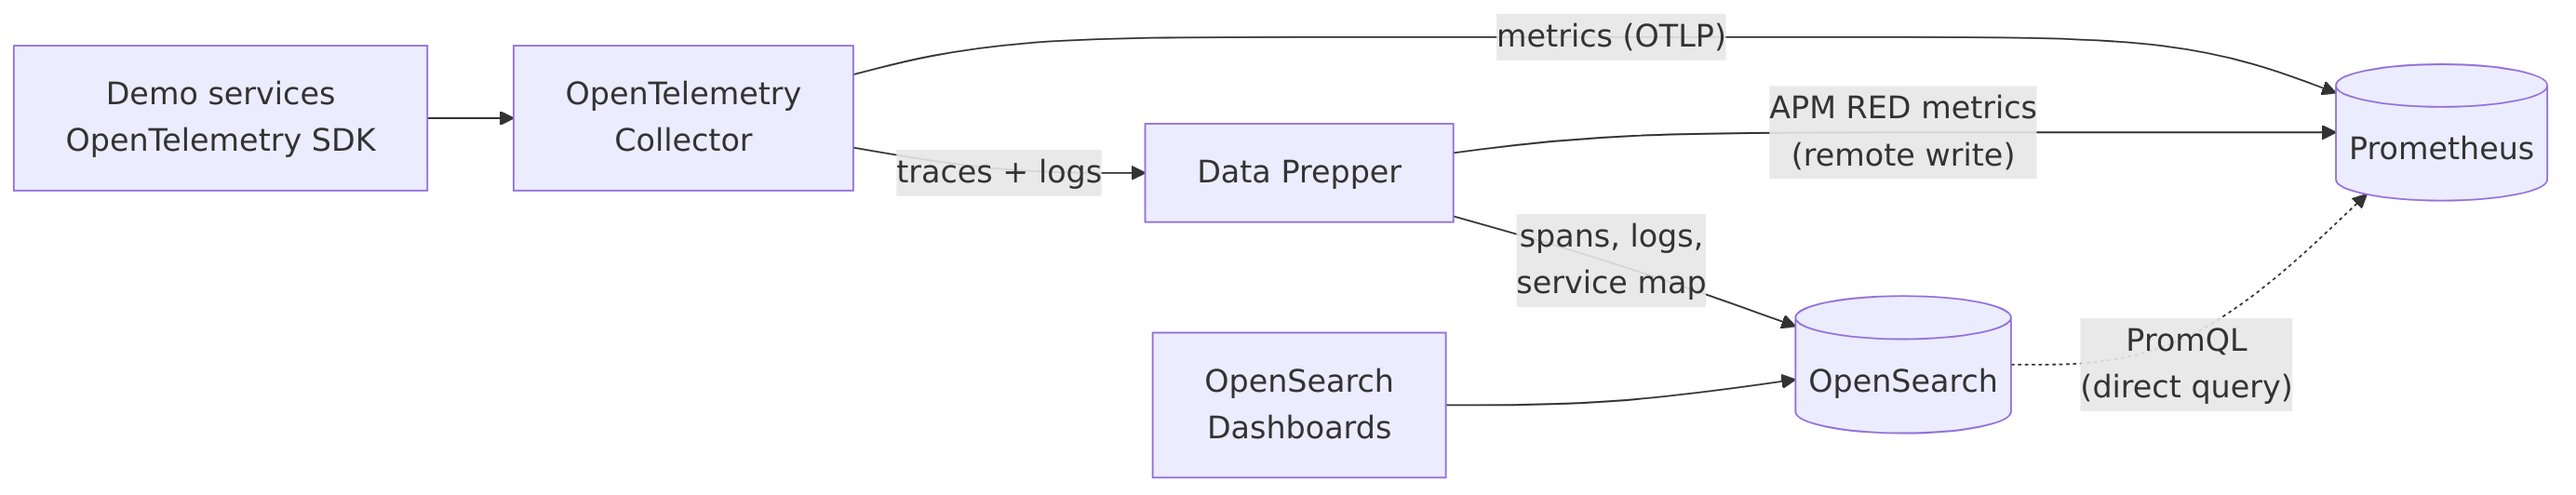
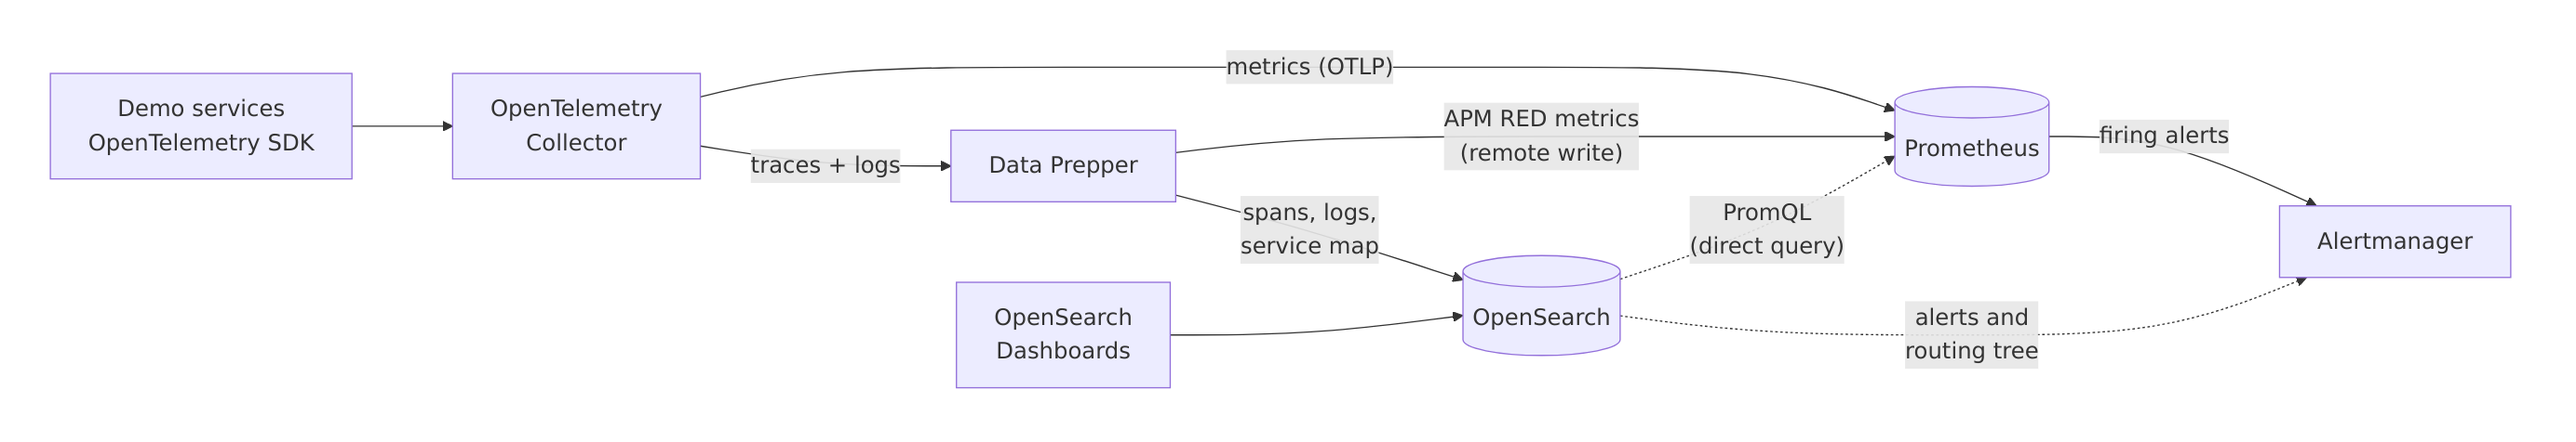
Add reproducible security test and sync blog post

diff --git a/blog-submission/_posts/2026-11-01-testing-opensearch-prometheus-integration.md b/blog-submission/_posts/2026-11-01-testing-opensearch-prometheus-integration.md
@@ -8,15 +8,13 @@ categories:
   - technical-posts
 has_science_table: true
 meta_keywords: OpenSearch Prometheus integration, PromQL in OpenSearch Dashboards, OpenSearch observability, Discover metrics, unified alerts, Alertmanager, OpenTelemetry, Data Prepper, APM, trace to logs correlation
-meta_description: A hands-on test of the OpenSearch Prometheus integration. Follow an injected fault from a PromQL query to a trace and its logs, see how queries and access control work, and learn what to plan for during setup.
-excerpt: OpenSearch Dashboards can query Prometheus with PromQL next to logs and traces stored in OpenSearch. I cloned my setup into a small lab, broke a service, and tried to find the cause from one UI. Here is how the investigation went, how queries and access control work, and what to plan for during setup.
+meta_description: A hands-on test of the OpenSearch Prometheus integration. Follow an injected fault from a PromQL query to a trace and its logs, see how queries and access control work, and avoid two setup problems.
+excerpt: OpenSearch Dashboards can query Prometheus with PromQL next to logs and traces stored in OpenSearch. I built a small lab, broke a service, and tried to find the cause from one UI. Here is how the investigation went, how queries and access control work, and two setup steps that cost me time.
 ---
 
-I worked as a cloud architect on a validation platform for a large healthcare enterprise, where we migrated several separate dashboards for metrics, logs, traces, and validation status into one view, and that work is now in production. What stayed with me was how much of an incident goes to moving between tools: you spot a latency spike in one place, then go looking for the matching trace and error message in another.
+Much of an incident goes to moving between tools: you spot a latency spike in one place, then go looking for the matching trace and error message in another. OpenSearch Dashboards can now query Prometheus directly with PromQL, next to logs and traces stored in OpenSearch, and you don't have to move your metrics to use it. To see how well that works, I built a small lab that mimics a common setup: Prometheus for metrics, and OpenSearch for logs and traces.
 
-OpenSearch Dashboards can query Prometheus directly with PromQL, next to logs and traces stored in OpenSearch, and you don't have to move your metrics to use it. I can't share that production environment, so I cloned the approach into a small lab that you can run yourself. Every number and screenshot in this post comes from that lab, not from production.
-
-The [OpenSearch 3.7 release post](https://opensearch.org/blog/explore-opensearch-3-7/) covers what the feature is. In this post, I'll focus on using it: I'll break a service on purpose and follow the fault from a PromQL query to a log line, trace how the query reaches Prometheus, test who can run it when the Security plugin is enabled, and share what to plan for during setup.
+The [OpenSearch 3.7 release post](https://opensearch.org/blog/explore-opensearch-3-7/) covers what the feature is. In this post, I'll focus on using it: I'll break a service on purpose and follow the fault from a PromQL query to a log line, trace how the query reaches Prometheus, test who can run it when the Security plugin is enabled, and describe two setup steps that cost me time.
 
 All results come from OpenSearch 3.9.0, OpenSearch Dashboards 3.9.0, Data Prepper 2.16.0, Prometheus 3.15.1, and the OpenTelemetry Collector 0.164.0, running in Docker on a laptop. The full lab, including every configuration file, is available in the [`opensearch-prometheus-lab` repository](https://github.com/mohiadeen-ameer/opensearch-prometheus-lab).
 
@@ -24,9 +22,9 @@ All results come from OpenSearch 3.9.0, OpenSearch Dashboards 3.9.0, Data Preppe
 
 The application is a two-service shop written in Go and instrumented with the OpenTelemetry SDK. The `checkout` service calls `payments`, which calls a simulated card provider. A load generator sends steady traffic, and the `payments` service exposes a `/chaos` endpoint that adds latency and errors on demand.
 
-The following diagram shows how each signal travels. The OpenTelemetry Collector sends traces and logs to Data Prepper, which writes them to OpenSearch. Metrics go directly to Prometheus through its native OpenTelemetry Protocol (OTLP) receiver. Data Prepper also derives rate, error, and duration (RED) metrics from spans and remote-writes them to Prometheus for the application performance monitoring (APM) pages.
+The following diagram shows how each signal travels. The OpenTelemetry Collector sends traces and logs to Data Prepper, which writes them to OpenSearch. Metrics go directly to Prometheus through its native OpenTelemetry Protocol (OTLP) receiver. Data Prepper also derives rate, error, and duration (RED) metrics from spans and remote-writes them to Prometheus for the application performance monitoring (APM) pages. Prometheus sends firing alerts to `Alertmanager`, and OpenSearch reads both for the alerting pages.
 
-![Architecture of the lab: the OpenTelemetry Collector sends traces and logs through Data Prepper to OpenSearch, and metrics to Prometheus. OpenSearch Dashboards queries OpenSearch, which forwards PromQL to Prometheus.](/assets/media/blog-images/2026-11-01-testing-opensearch-prometheus-integration/architecture.png){:class="img-centered"}
+![Architecture of the lab: the OpenTelemetry Collector sends traces and logs through Data Prepper to OpenSearch, and metrics to Prometheus, which sends alerts to Alertmanager. OpenSearch Dashboards queries OpenSearch, which forwards PromQL to Prometheus and reads alerts from Alertmanager.](/assets/media/blog-images/2026-11-01-testing-opensearch-prometheus-integration/architecture.png){:class="img-centered"}
 
 Connecting Prometheus takes one API call to OpenSearch Dashboards:
 
@@ -89,7 +87,7 @@ The following chart shows p95 latency for both services jumping from about 50 ms
 
 ![PromQL query in the builder and a line chart showing p95 latency rising from about 50 ms to about 750 ms for both services.](/assets/media/blog-images/2026-11-01-testing-opensearch-prometheus-integration/promql-p95-latency.png)
 
-The `service_name` label exists because Prometheus is configured to promote the OpenTelemetry `service.name` resource attribute to a label (`otlp.promote_resource_attributes` in `prometheus.yml`). The same `service.name` value is stored on every span and log in OpenSearch. That shared key is what lets you move between signals, so plan for it from the start.
+The `service_name` label exists because Prometheus is configured to promote the OpenTelemetry `service.name` resource attribute to a label (`otlp.promote_resource_attributes` in `prometheus.yml`). The same `service.name` value is stored on every span and log in OpenSearch. That shared key is what lets you move between signals, so set it up from the start.
 
 ### Step 2: Check which alerts fired
 
@@ -117,7 +115,7 @@ In this lab, with one injected fault, it took four steps to get from a latency s
 
 ## Controlling who can query Prometheus
 
-The Security plugin was disabled in the lab, so I tested access separately on a single OpenSearch 3.9.0 node with the plugin enabled. I created a data connection with `"allowedRoles": ["promreaders"]` and sent the same PromQL query through the API as three users.
+The Security plugin is disabled in the main lab, so I tested access separately on a second OpenSearch 3.9.0 node with the plugin enabled. The `security-test` folder in the lab repository starts that node and runs the same test. I created a data connection with `"allowedRoles": ["promreaders"]` and sent the same PromQL query through the API as three users.
 
 | User | Direct query permissions | In `promreaders` | Result |
 | :--- | :--- | :--- | :--- |
@@ -129,13 +127,13 @@ So two layers apply: the cluster permission decides whether you can call the API
 
 This doesn't protect Prometheus itself. Anyone who can reach its HTTP port can still query it directly, so restrict network access too. I only tested the API, not OpenSearch Dashboards with security enabled, so tenants and workspace permissions remain open questions for me.
 
-## What to plan for during setup
+## Two setup steps that cost me time
 
-Setup was straightforward once I knew the steps, but there are several: the data connection, an encryption key, an Observability workspace, the `explore` settings, and the datasets. Two details cost me the most time.
+Setup was straightforward once I knew the steps, but there are several: the data connection, an encryption key, an Observability workspace, the `explore` settings, and the datasets. These two cost me the most time.
 
 ### Creating alert rules requires a Prometheus backend with a ruler API
 
-OpenSearch 3.9 has a form for building an alert rule from a PromQL query without writing YAML. When I submitted it against open-source Prometheus, the form reported that the rule's configuration was invalid and asked me to correct the highlighted fields. The rule was fine. The OpenSearch log showed the real reason: `Ruler request failed with code: 404`. Open-source Prometheus loads rules from files and has no API for writing them.
+OpenSearch 3.9 has a form for building an alert rule from a PromQL query without writing YAML. I tested this on OpenSearch 3.9.0: when I submitted the form against open-source Prometheus, the form reported that the rule's configuration was invalid and asked me to correct the highlighted fields. The rule was fine. The OpenSearch log showed the real reason: `Ruler request failed with code: 404`. Open-source Prometheus loads rules from files and has no API for writing them.
 
 Reading rules works: the **Alerts** and **Rules** tabs showed the lab's file-based rules. To create rules from OpenSearch Dashboards, use a backend that provides a ruler API, such as Cortex, Grafana Mimir, or Amazon Managed Service for Prometheus, and set it as `prometheus.ruler.uri` on the data source. The [OpenSearch Observability Stack](https://github.com/opensearch-project/observability-stack) uses Cortex this way. I read that configuration but didn't test a ruler-enabled backend myself.
 
@@ -153,7 +151,7 @@ This was a small test, so treat these results as a starting point. The lab runs 
 
 The surprise for me was how little changes on the Prometheus side. OpenSearch doesn't store these metrics; it forwards PromQL to Prometheus and shows the results next to your logs and traces. My Prometheus rules kept working, and I didn't move any data. I think that's the right starting point, because you can try it without committing to a migration. If you already run OpenSearch Dashboards for logs and traces, it also means one less UI to run for metrics.
 
-If you want metrics stored in OpenSearch itself, the [Time-Series Database plugin](https://github.com/opensearch-project/time-series-db) and the `index_type: tsdb` sink option in [Data Prepper 2.16](https://opensearch.org/blog/data-prepper-2-16/) are worth looking at. I haven't tested that option yet.
+If you want a single store instead, the [Time-Series Database plugin](https://github.com/opensearch-project/time-series-db) and the `index_type: tsdb` sink option in [Data Prepper 2.16](https://opensearch.org/blog/data-prepper-2-16/) store metrics in OpenSearch itself. I haven't tested that option yet.
 
 ## Next steps
 
@@ -169,7 +167,7 @@ curl "localhost:8081/chaos?latency_ms=700&error_rate=0.25"
 
 Then open `http://localhost:5601`, select the **Shop observability** workspace, and follow the same four steps.
 
-Before you adopt the integration, check the following:
+Before you adopt the integration:
 
 - If you want to create alert rules from OpenSearch Dashboards, make sure your Prometheus backend provides a ruler API.
 - Make sure that `service.name` is promoted to a Prometheus label so that you can correlate metrics with traces and logs.

diff --git a/README.md b/README.md
@@ -94,6 +94,7 @@ curl -s -X POST localhost:9200/_plugins/_directquery/_query/lab_prometheus -H 'C
 | `config/opensearch_dashboards.yml` | turns on workspaces, the explore plugin (logs/traces/metrics) and Alertmanager view |
 | `setup.sh` | Prometheus data source, workspace, datasets (with field refresh), trace-to-logs and APM correlations |
 | `benchmark/` | `run.py` measures the lab at given request rates (`benchmark/run.py 100`); `results.json` is the latest run |
+| `security-test/` | a second OpenSearch node with the Security plugin on; `security-test/run.sh` checks who can query the Prometheus data connection |
 | `app/` | the Go demo: `main.go` (3 roles), `telemetry.go` (OTel SDK setup) |
 
 ## Versions tested
